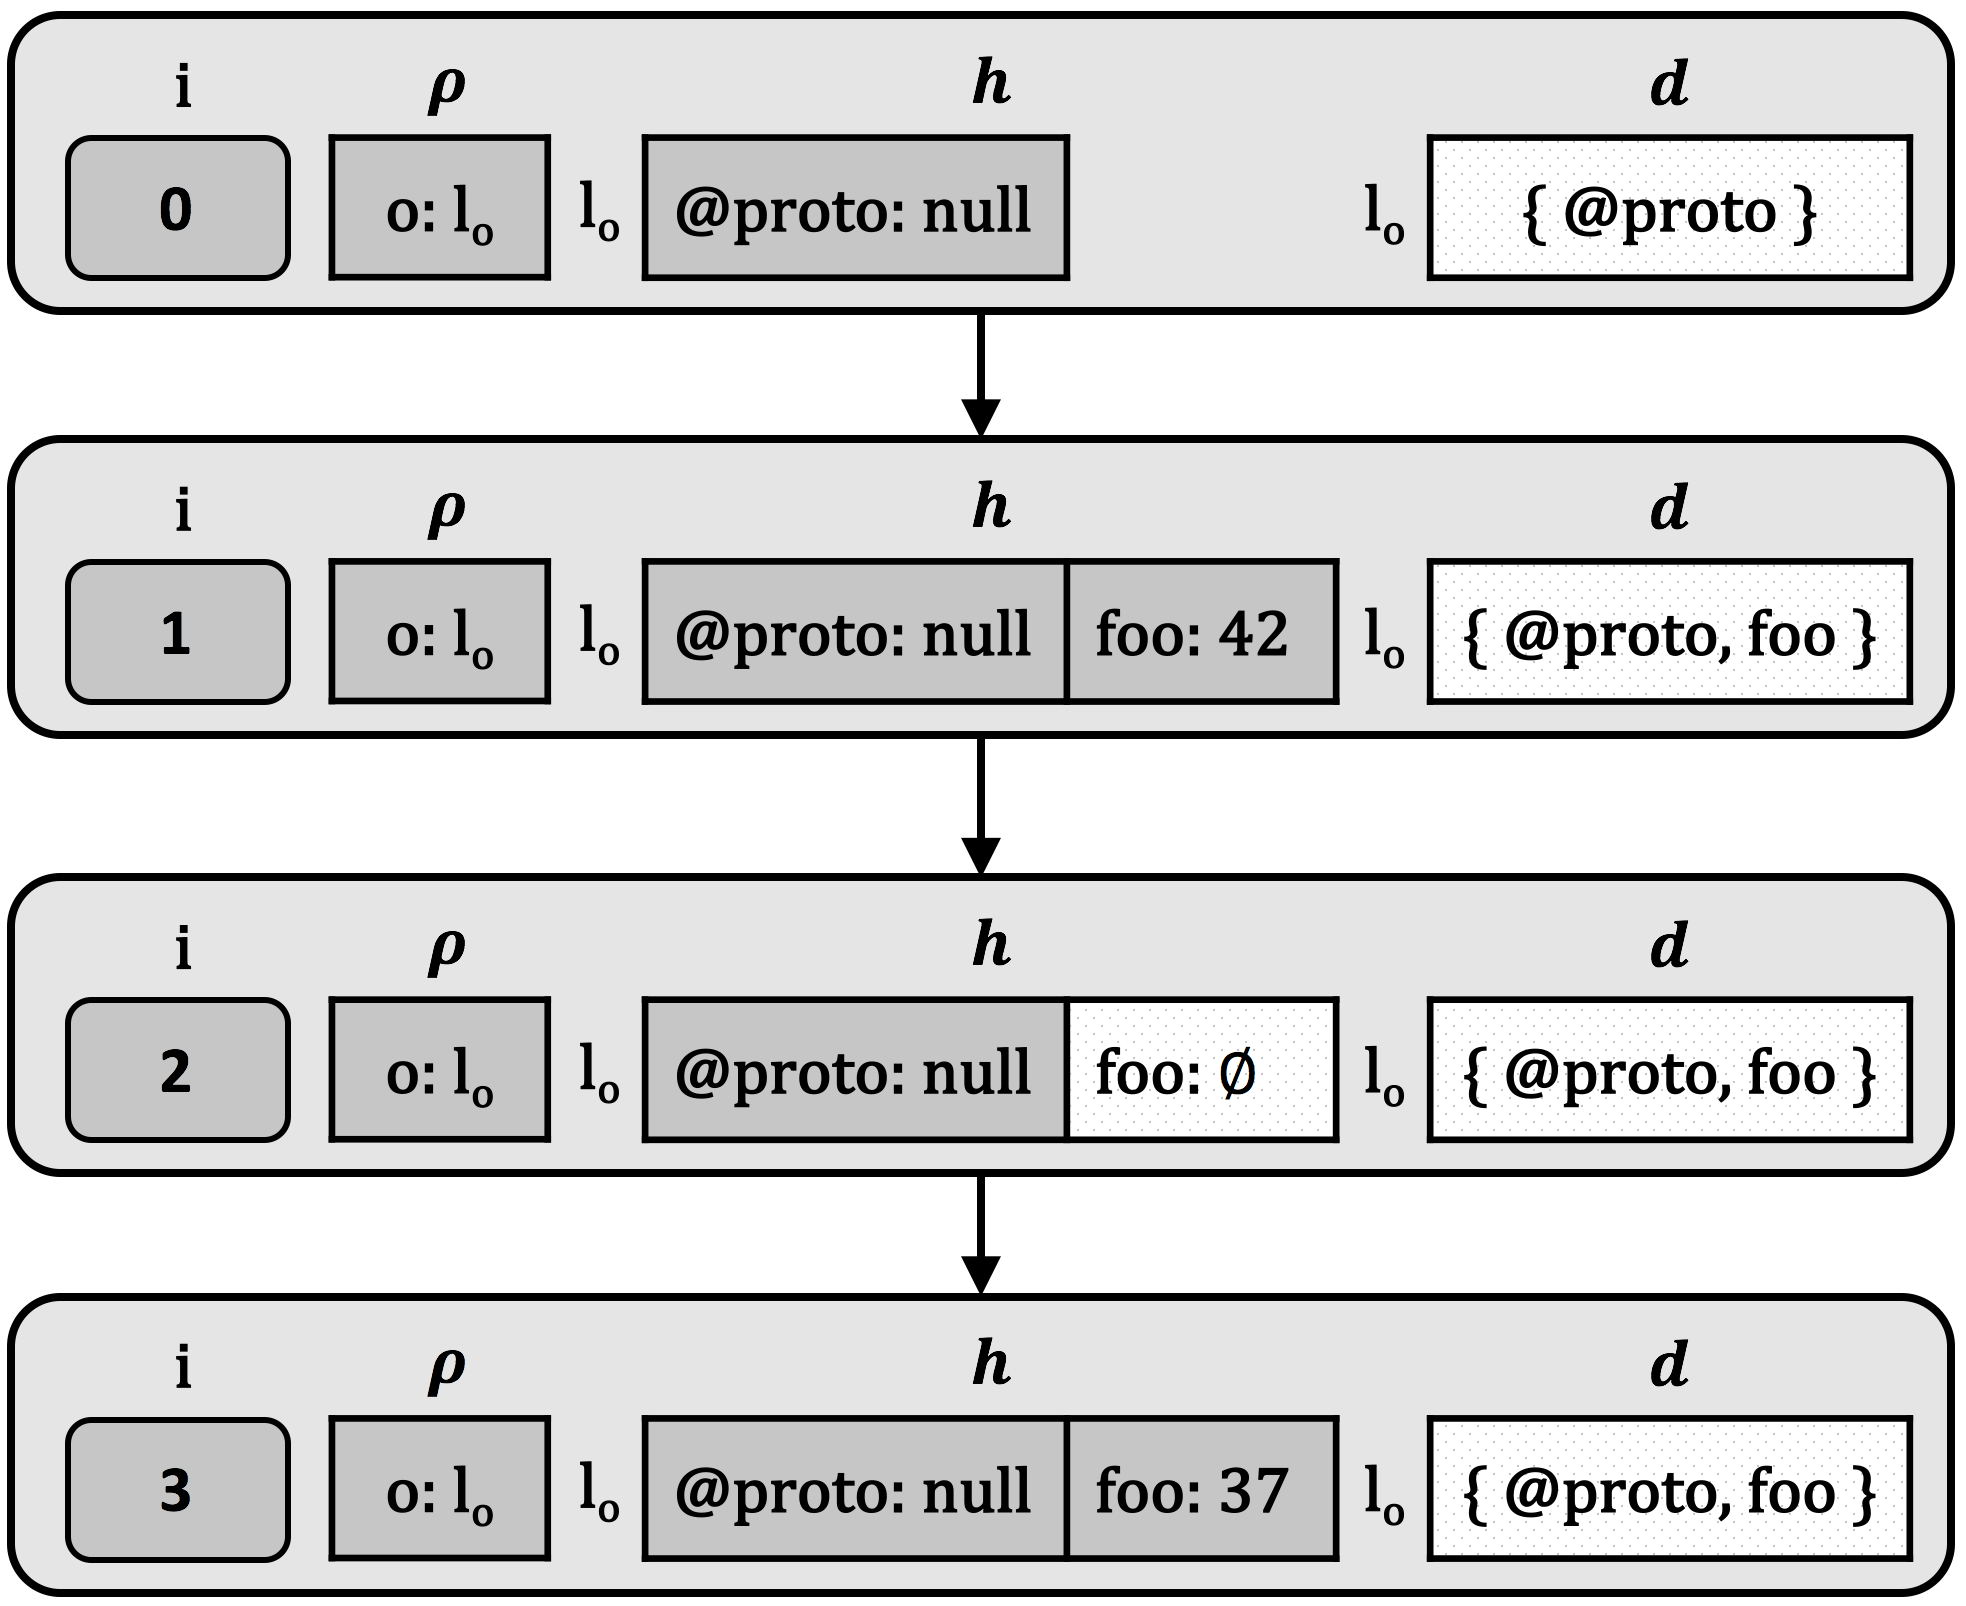
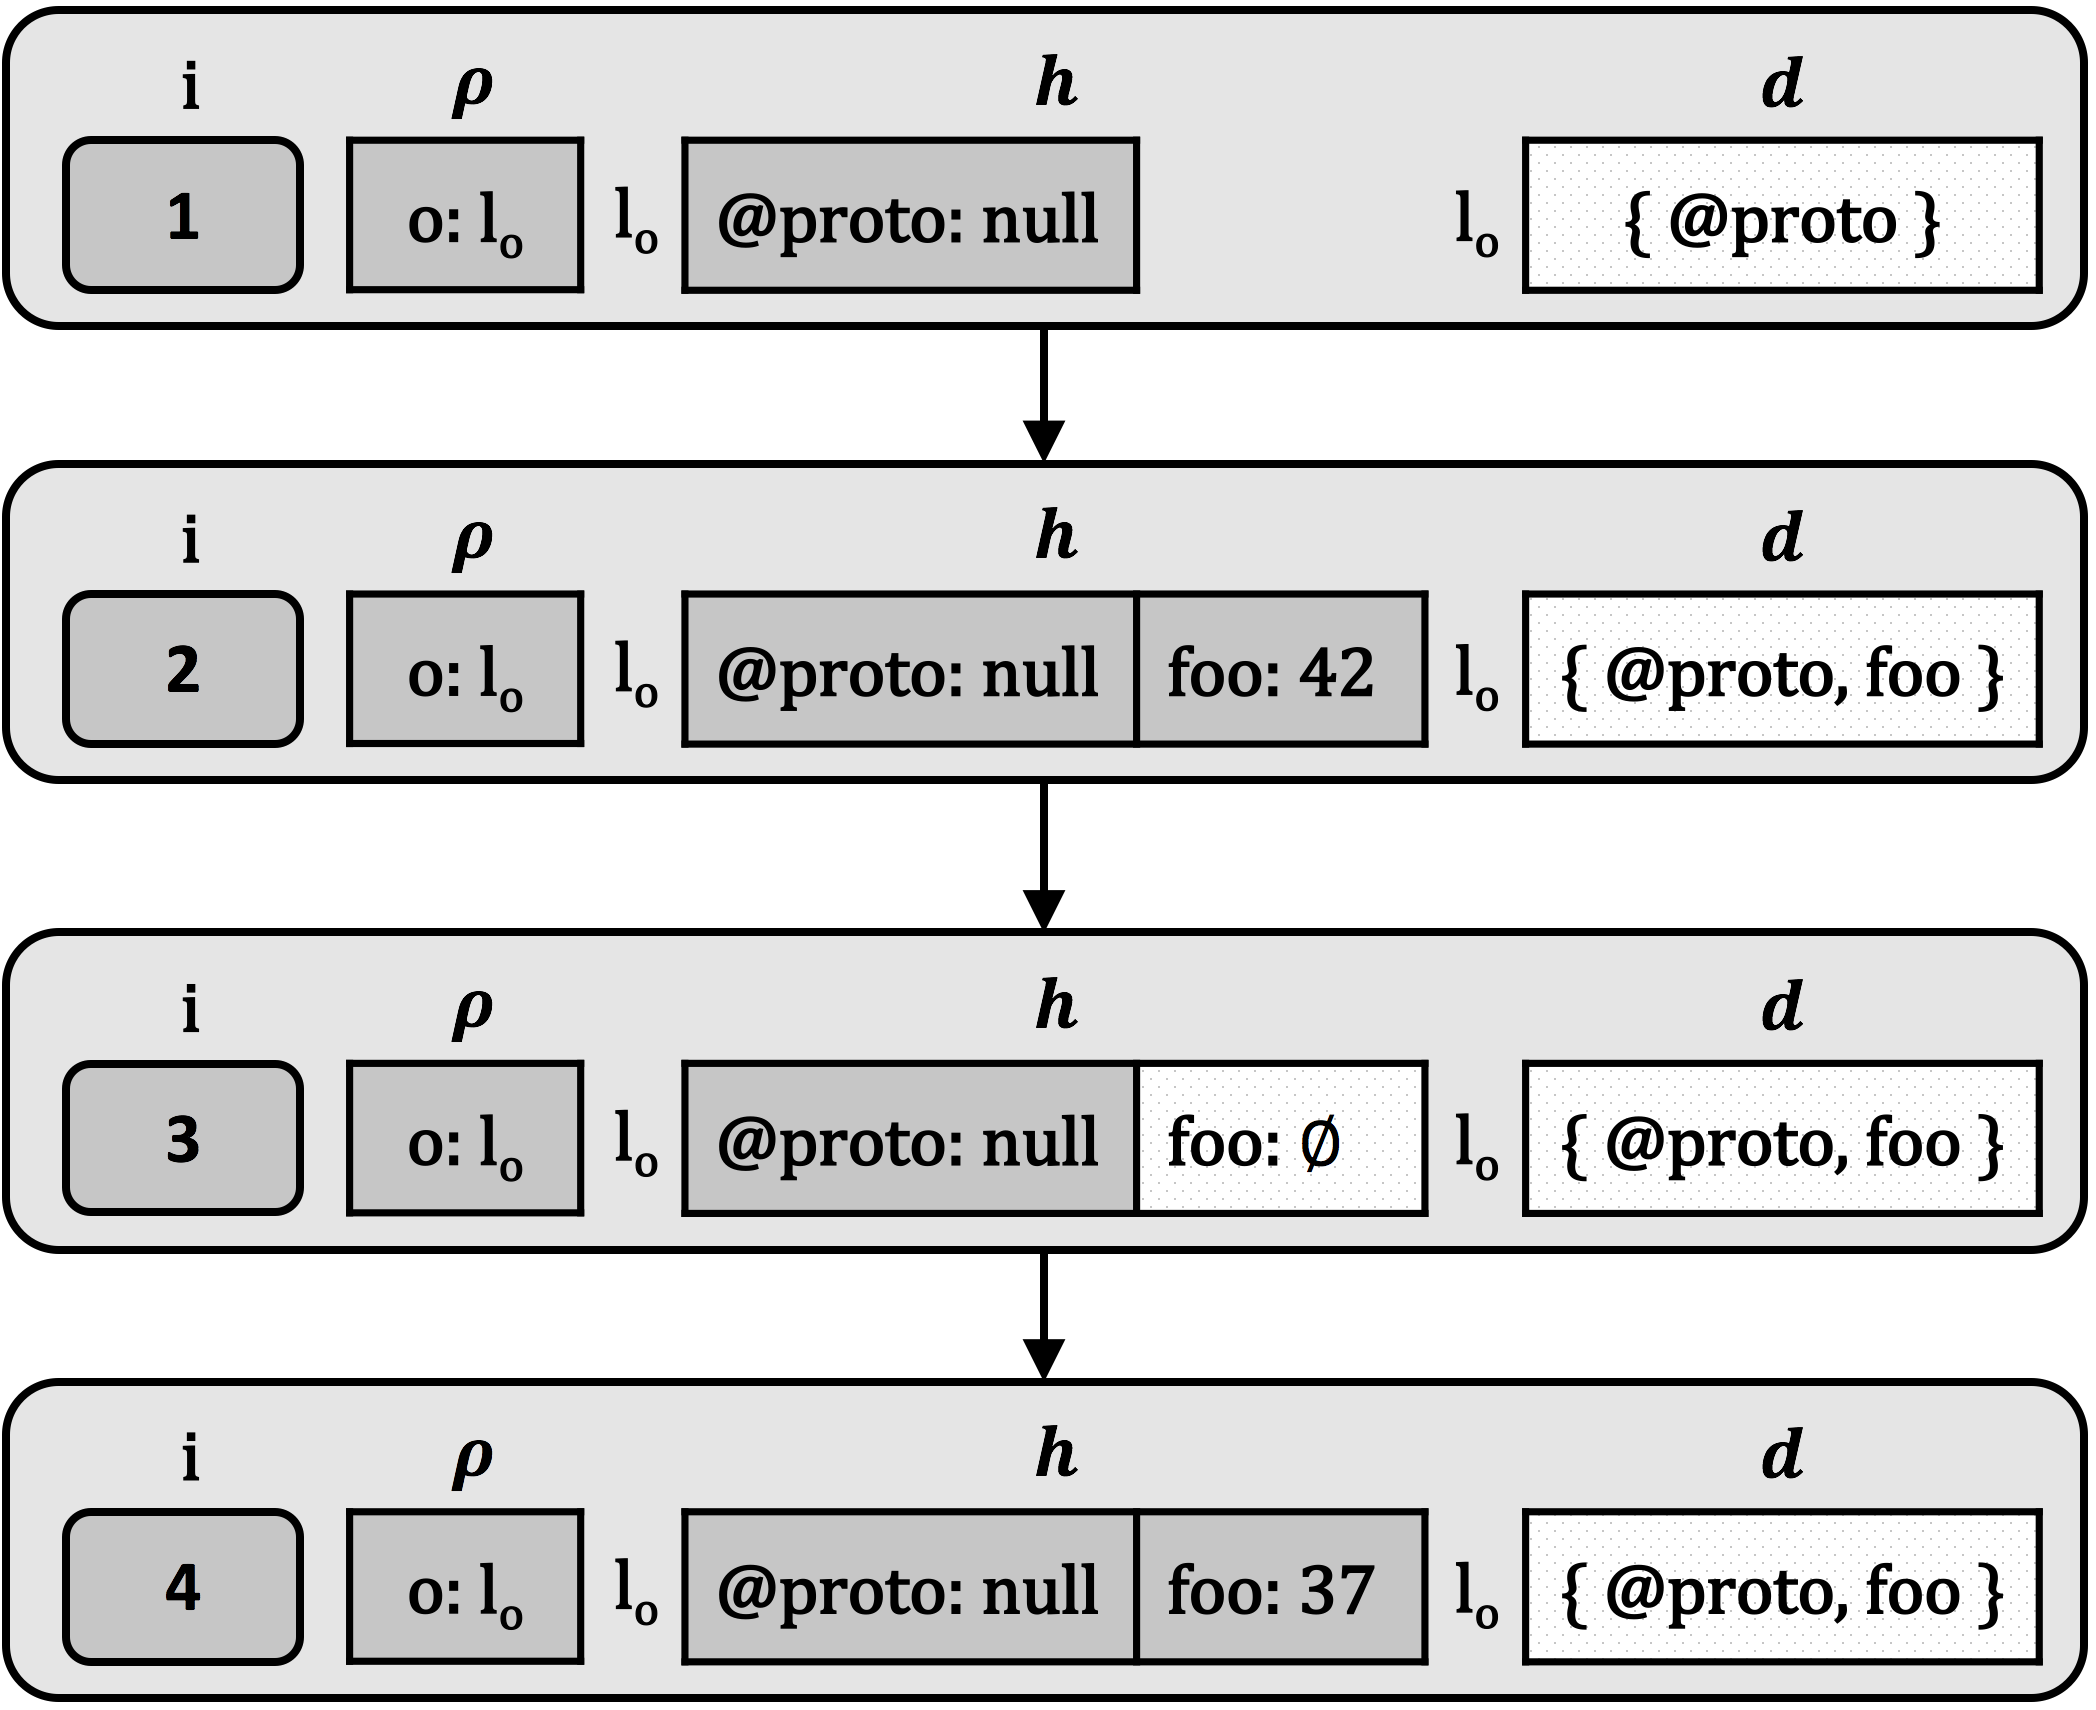
3.something

diff --git a/papers/ppdp18/sections/jsil_symb_exec.tex b/papers/ppdp18/sections/jsil_symb_exec.tex
@@ -546,14 +546,16 @@ for~commands.
  % 
      \inferrule[\textsc{GetCell - Not Found}]
    { 
-   		\istate = (\iheap, \idom, \store) 
-		\quad
          \evalexpr{\concrete}(\store, \jsilexpr_1) = \loc
         \quad 
          \evalexpr{\concrete}(\store, \jsilexpr_2) = p
          \quad
-       p \not\in \idom(\loc) 
-            }{  \absgetcellrule{\instrumented}{\istate, \jsilexpr_1, \jsilexpr_2}{(\iheap \dunion (\loc, p) \mapsto \none, \idom[\loc \mapsto \idom(\loc) \cup \jsilset{p}], \store), (\loc, p, \none)}}
+         p \not\in \idom(\loc) 
+         \quad
+         \iheap' = \iheap \dunion (\loc, p) \mapsto \none
+         \quad
+         \idom' = \idom[\loc \mapsto \idom(\loc) \cup \jsilset{p}]
+            }{  \absgetcellrule{\instrumented}{(\iheap, \idom, \store), \jsilexpr_1, \jsilexpr_2}{(\iheap', \idom', \store), (\loc, p, \none)}}
   %
   \\
   \inferrule[\textsc{GetDomain}]
@@ -611,10 +613,10 @@ only means that this property does not exist in the current heap. Also, note how
 \begin{wrapfigure}{R}{0.12\textwidth}
 \vspace*{+0.05cm}
 {\small
-\hspace*{-0.5cm} $\mathtt{0\quad o := \jsilnew ()}$ \\[-0.06cm]
-\hspace*{-0.5cm} $\mathtt{1\quad [o, "foo"] := 42}$ \\[-0.06cm]
-\hspace*{-0.5cm} $\mathtt{2\quad \jsildelete(o, "foo")}$ \\ [-0.06cm]
-\hspace*{-0.5cm} $\mathtt{3\quad [o, "foo"] := 37}$ 
+\hspace*{-0.5cm} $\mathtt{1\quad o := \jsilnew ()}$ \\[-0.06cm]
+\hspace*{-0.5cm} $\mathtt{2\quad [o, "foo"] := 42}$ \\[-0.06cm]
+\hspace*{-0.5cm} $\mathtt{3\quad \jsildelete(o, "foo")}$ \\ [-0.06cm]
+\hspace*{-0.5cm} $\mathtt{4\quad [o, "foo"] := 37}$ 
 }
 \vspace*{-0.25cm}
 %{\hspace*{-1cm}{\mbox{\caption{\jsil Example 1\label{jsil:example:frame}}}}}
@@ -800,14 +802,10 @@ For $\sstate = (\sheap, \sdom, \sstore, \pc)$, we write $\sstate \wedge \sexprb$
         \quad 
         \evalexpr{\symbolic}(\sstore, \jsilexpr_2) = \sexprp
       \quad
-       \sheap = \sheap'' \, \uplus \, \big((\sloc, \sexprp_i) \mapsto \sexprv_i \big)\mid_{i = 0}^m
-      \\\\
-       (\sloc,-) \notin \domain (\sheap'')
-        \quad 
         \sheap' = \sheap \dunion ((\sloc, \sexprp) \mapsto \none)
        \quad
        \sdom' = \sdom[\sloc \mapsto \sdom(\sloc) \cup \jsilset{\sexprp}]
-   }{  \absgetcellrule{\symbolic}{(\sheap, \sdom, \sstore, \pc), \jsilexpr_1, \jsilexpr_2}{(\sheap', \sdom', \sstore,  {\color{blue}\pc \, \wedge \, \sexprp \not\in (\sdom(\sloc) \cup \jsilset{\sexprp_i \mid_{i=0}^m}})), (\sloc, \sexprp, \none)}}
+   }{  \absgetcellrule{\symbolic}{(\sheap, \sdom, \sstore, \pc), \jsilexpr_1, \jsilexpr_2}{(\sheap', \sdom', \sstore,  {\color{blue}\pc \, \wedge \, \sexprp \not\in \sdom(\sloc)}), (\sloc, \sexprp, \none)}}
   %
   \\
   %
@@ -848,55 +846,51 @@ For $\sstate = (\sheap, \sdom, \sstore, \pc)$, we write $\sstate \wedge \sexprb$
 %      \inferrule[\textsc{Store Selector}]
 %   {}{  \stosel((-, -, \sstore, -)) =  \sstore}
    \quad 
-         \inferrule[\textsc{Symbolic Value Creation}]
-   {\svar \in \svars \text{ is of type } \jtype
-     \quad 
-     \svar \not\in \fv(\sstate)
-    }{\absmakesymbolicrule{\symbolic}{\sstate, \jtype} = \svar}
-   \\
        \inferrule[\textsc{Assume}]
    {  
          \sexprb = \evalexpr{\symbolic}(\sstate.\stosel, \jsilexpr)
    }{  \absassume{\symbolic}(\sstate, \jsilexpr) =  \sstate \, \wedge \, \sexprb }
-   \qquad
+   \\
     \inferrule[\textsc{Check Sat - True}]
    { 
    	\sexprb = \evalexpr{\symbolic}(\sstate.\stosel, \jsilexpr)
-         \\\\
+         \quad
          (\sstate.\pcsel \wedge \sexprb) \text{ SAT}
    }{  \abssat{\symbolic}(\sstate, \jsilexpr) = \jtrue}
  \qquad 
     \inferrule[\textsc{Check Sat - False}]
    { 
          \sexprb = \evalexpr{\symbolic}(\sstate.\stosel, \jsilexpr)
-         \\\\
+         \quad
          (\sstate.\pcsel \wedge \sexprb) \text{ UNSAT}
    }{  \abssat{\symbolic}(\sstate, \jsilexpr) = \jfalse} 
  \end{mathpar}}}
  \end{display}
 
 \noindent Symbolic variables evaluate to themselves: $\evalexpr{s}(\svar) = \svar$. As they carry meaning only in the symbolic semantics, their evaluation is not supported by the concrete and instrumented semantics (cf. Appendix). 
-GetCell extends its instrumented counterpart by recording relevant information in the path condition (highlighted in blue): if a symbolic property is found, we record the appropriate equality; if it is not found, we record that it is different from all of the properties. We note that the evaluation of a symbolic variable $\svar$ returns $\svar$ itself.
+GetCell extends its instrumented counterpart by recording relevant information in the path condition (highlighted in blue): if a symbolic property is found, we record the appropriate equality; if it is not found, we record that it is different from all of the properties. 
 
 \begin{wrapfigure}{R}{0.12\textwidth}
-\vspace*{-0.2cm}
+\vspace*{-0.3cm}
 {\footnotesize
-\hspace*{-0.55cm} $\mathtt{0\quad s := symb\ (String)}$ \\
-\hspace*{-0.55cm} $\mathtt{1\quad o := new\ ()}$ \\
-\hspace*{-0.55cm} $\mathtt{2\quad o[s] := 42};$ \\
-\hspace*{-0.55cm} $\mathtt{3\quad x := getProps(o);}$ \\
+\hspace*{-0.55cm} $\mathtt{1\quad o := new\ ()}$ \\[-0.06cm]
+\hspace*{-0.55cm} $\mathtt{2\quad o[\hat{s}] := 42};$ \\[-0.06cm]
+\hspace*{-0.55cm} $\mathtt{3\quad x := getProps(o);}$ \\[-0.06cm]
 \hspace*{-0.55cm} $\mathtt{4\quad assert\ (card \ x = 2)}$
 }
-\vspace*{-0.2cm}
+\vspace*{-0.35cm}
 \end{wrapfigure}
 
-\pmax{Non-determinism! Abstract not deterministic - concrete/instruments - object allocation, here real non-determinism.}
+\myparagraph{Non-determinism} The symbolic semantics is highly non-determi-nistic. 
+This is evident in the definition of GetCell, where the property $\sexprp$ is non-deterministically
+chosen to be equal to any of the properties of the object at location $\sexprl$ (\textsc{GetCell - Found}), but also to be different from all of them (\textsc{GetCell - Not Found}).
+This is in contrast to the concrete and instrumented semantics, where the only source of non-determinism is object allocation. 
 
 \myparagraph{Example: Symbolic Branching}
 To get a better intuition of the symbolic execution, observe the code snippet on the right and its symbolic execution in Fig.~\ref{fig:sexecexample} (right). 
 This code: 
-        \dtag{0-1}~creates a new symbolic string \jsinline|s| and a new object~\jsinline|o|;
-	\dtag{2}~assigns 42 to the property \jsinline|s| of~\jsinline|o|; 
+        \dtag{1}~creates a new object~\jsinline|o|;
+	\dtag{2}~assigns 42 to the symbolic property $\hat{\mathtt{s}}$ of~\jsinline|o|; 
 	\dtag{3}~collects all the properties of $\mathtt{o}$; and
 	\dtag{4}~asserts that $\mathtt{o}$ has two properties in the end. 
 	     The last assertion will produce a failing symbolic execution.
